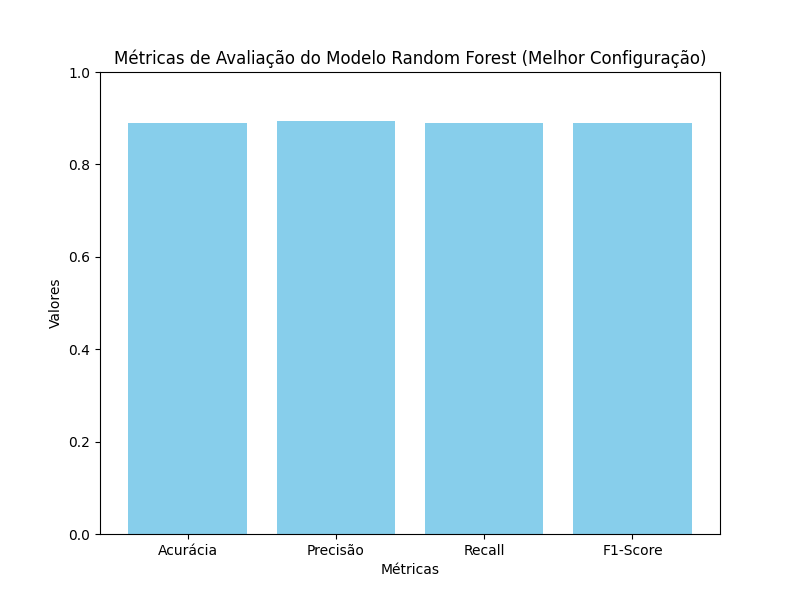
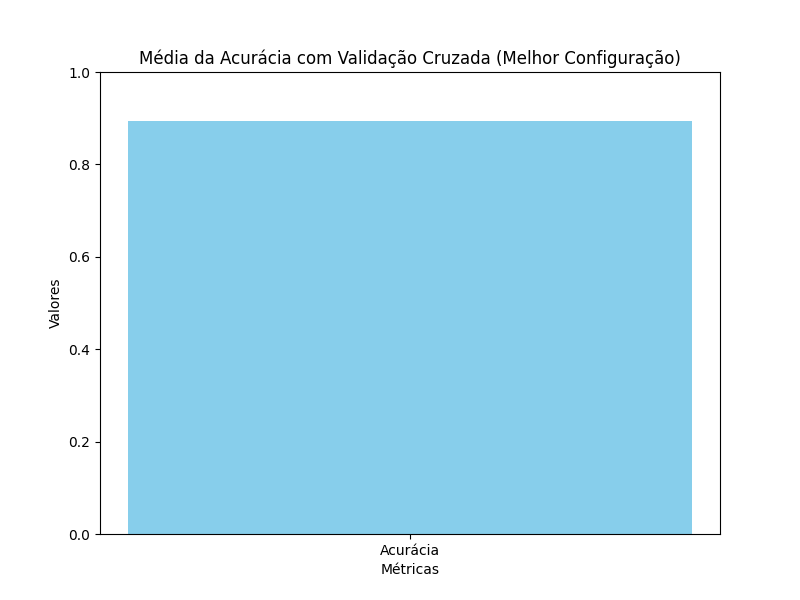
feat:

diff --git a/Machine_Learn_II/Trabalho/trab_2.4-Randon_Forest_Holdout.py b/Machine_Learn_II/Trabalho/trab_2.4-Randon_Forest_Holdout.py
@@ -1,13 +1,13 @@
 import pandas as pd
 import numpy as np
 from sklearn.ensemble import RandomForestClassifier
-from sklearn.model_selection import cross_val_score, KFold, train_test_split
+from sklearn.model_selection import train_test_split
 from sklearn.preprocessing import StandardScaler, LabelEncoder
 from sklearn.metrics import accuracy_score, precision_score, recall_score, f1_score
 import matplotlib.pyplot as plt
 
 # Carregar o dataset
-df_gym = pd.read_csv('C:/Users/Antonio/Desktop/projeto-pos/pos/Machine_Learn_II/Trabalho/gym.csv')
+df_gym = pd.read_csv('/mnt/data/gym.csv')  # Substituir pelo caminho correto caso necessário
 
 # Remover linhas com valores ausentes na variável alvo
 df_gym = df_gym.dropna(subset=['Experience_Level'])
@@ -28,25 +28,11 @@ y = df_gym['Experience_Level']
 scaler = StandardScaler()
 X_scaled = scaler.fit_transform(X)
 
-# Configuração do modelo Random Forest
-random_forest = RandomForestClassifier(random_state=42, n_jobs=-1)
+# Dividir os dados para treino e teste com 25% dos dados para teste
+X_train, X_test, y_train, y_test = train_test_split(X_scaled, y, test_size=0.25, random_state=42)
 
-# Configuração do Cross-Validation com 10 k-folds
-kfold = KFold(n_splits=10, shuffle=True, random_state=42)
-
-# Executando o Cross-Validation
-scores = cross_val_score(random_forest, X_scaled, y, cv=kfold, scoring='accuracy')
-
-# Resultados do Cross-Validation
-mean_accuracy = scores.mean()
-std_accuracy = scores.std()
-
-print(f"Acurácia Média no Cross-Validation: {mean_accuracy:.2%}")
-print(f"Desvio Padrão da Acurácia: {std_accuracy:.2%}")
-print(f"Acurácias por Fold: {scores}")
-
-# Dividir os dados para treino e teste
-X_train, X_test, y_train, y_test = train_test_split(X_scaled, y, test_size=0.3, random_state=42)
+# Configuração do modelo Random Forest com o melhor n_estimators do exercício 1
+random_forest = RandomForestClassifier(random_state=42, n_jobs=-1, n_estimators=1000)  # Melhor n_estimators ajustado
 
 # Treinar o modelo e fazer previsões
 random_forest.fit(X_train, y_train)
@@ -58,12 +44,12 @@ precision = precision_score(y_test, y_pred, average='weighted', zero_division=0)
 recall = recall_score(y_test, y_pred, average='weighted', zero_division=0)
 f1 = f1_score(y_test, y_pred, average='weighted')
 
-print("/nMétricas de Avaliação no Conjunto de Teste:")
+# Exibir resultados das métricas
+print("Métricas de Avaliação no Conjunto de Teste:")
 print(f"Acurácia: {accuracy:.2%}")
 print(f"Precisão: {precision:.2%}")
 print(f"Recall: {recall:.2%}")
 print(f"F1-Score: {f1:.2%}")
-
 
 # Gerar gráfico das métricas
 metrics = ['Acurácia', 'Precisão', 'Recall', 'F1-Score']

diff --git a/Machine_Learn_II/Trabalho/trab_2.3-Randon_Forest_melhor_configuracao.py b/Machine_Learn_II/Trabalho/trab_2.3-Randon_Forest_melhor_configuracao.py
@@ -1,7 +1,7 @@
 import pandas as pd
 import numpy as np
 from sklearn.ensemble import RandomForestClassifier
-from sklearn.model_selection import cross_val_score, KFold, train_test_split, GridSearchCV
+from sklearn.model_selection import cross_val_score, KFold, GridSearchCV
 from sklearn.preprocessing import StandardScaler, LabelEncoder
 from sklearn.metrics import accuracy_score, precision_score, recall_score, f1_score
 import matplotlib.pyplot as plt
@@ -28,9 +28,6 @@ y = df_gym['Experience_Level']
 scaler = StandardScaler()
 X_scaled = scaler.fit_transform(X)
 
-# Dividir os dados para treino e teste
-X_train, X_test, y_train, y_test = train_test_split(X_scaled, y, test_size=0.3, random_state=42)
-
 # Configuração do modelo Random Forest
 random_forest = RandomForestClassifier(random_state=42, n_jobs=-1)
 
@@ -43,7 +40,7 @@ param_grid = {
 }
 
 grid_search = GridSearchCV(estimator=random_forest, param_grid=param_grid, cv=5, scoring='accuracy', n_jobs=-1)
-grid_search.fit(X_train, y_train)
+grid_search.fit(X_scaled, y)
 
 # Melhor configuração e modelo treinado
 best_model = grid_search.best_estimator_
@@ -51,29 +48,17 @@ best_params = grid_search.best_params_
 print("/nMelhor Configuração Encontrada:")
 print(best_params)
 
-# Avaliar o modelo com os dados de teste
-y_pred = best_model.predict(X_test)
-
-# Calcular métricas no conjunto de teste
-accuracy = accuracy_score(y_test, y_pred)
-precision = precision_score(y_test, y_pred, average='weighted', zero_division=0)
-recall = recall_score(y_test, y_pred, average='weighted', zero_division=0)
-f1 = f1_score(y_test, y_pred, average='weighted')
-
-print("/nMétricas de Avaliação no Conjunto de Teste:")
-print(f"Acurácia: {accuracy:.2%}")
-print(f"Precisão: {precision:.2%}")
-print(f"Recall: {recall:.2%}")
-print(f"F1-Score: {f1:.2%}")
+# Avaliar o modelo com validação cruzada
+cv_scores = cross_val_score(best_model, X_scaled, y, cv=5, scoring='accuracy')
+accuracy = np.mean(cv_scores)
+print("/nMédia da Acurácia com Validação Cruzada:")
+print(f"{accuracy:.2%}")
 
 # Gerar gráfico das métricas
-metrics = ['Acurácia', 'Precisão', 'Recall', 'F1-Score']
-values = [accuracy, precision, recall, f1]
-
 plt.figure(figsize=(8, 6))
-plt.bar(metrics, values, color='skyblue')
+plt.bar(['Acurácia'], [accuracy], color='skyblue')
 plt.ylim(0, 1)
-plt.title('Métricas de Avaliação do Modelo Random Forest (Melhor Configuração)')
+plt.title('Média da Acurácia com Validação Cruzada (Melhor Configuração)')
 plt.ylabel('Valores')
 plt.xlabel('Métricas')
 plt.show()

diff --git a/Machine_Learn_II/Trabalho/trab_2.1-Randon_Forest_Cross.py b/Machine_Learn_II/Trabalho/trab_2.1-Randon_Forest_Cross.py
@@ -1,0 +1,59 @@
+import pandas as pd
+import numpy as np
+import matplotlib.pyplot as plt
+from sklearn.ensemble import RandomForestClassifier
+from sklearn.model_selection import cross_val_score, KFold
+from sklearn.preprocessing import StandardScaler, LabelEncoder
+
+# Carregar o dataset
+# Substitua o caminho pelo local correto do arquivo
+caminho_arquivo = 'C:/Users/Antonio/Desktop/projeto-pos/pos/Machine_Learn_II/Trabalho/gym.csv'
+df_gym = pd.read_csv(caminho_arquivo)
+
+# Remover linhas com valores ausentes na variável alvo
+df_gym = df_gym.dropna(subset=['Experience_Level'])
+
+# Codificar variáveis categóricas
+label_encoders = {}
+categorical_columns = ['Gender', 'Workout_Type']
+for col in categorical_columns:
+    le = LabelEncoder()
+    df_gym[col] = le.fit_transform(df_gym[col])
+    label_encoders[col] = le
+
+# Definir features (X) e target (y)
+X = df_gym.drop(columns=['Experience_Level'])
+y = df_gym['Experience_Level']
+
+# Normalizar os dados
+scaler = StandardScaler()
+X_scaled = scaler.fit_transform(X)
+
+# Configuração do modelo Random Forest
+random_forest = RandomForestClassifier(random_state=42, n_jobs=-1, n_estimators=1000)
+
+# Configuração do Cross-Validation com 10 k-folds
+kfold = KFold(n_splits=10, shuffle=True, random_state=42)
+
+# Executando o Cross-Validation
+scores = cross_val_score(random_forest, X_scaled, y, cv=kfold, scoring='accuracy')
+
+# Exibindo os resultados do Cross-Validation
+mean_accuracy = scores.mean()
+std_accuracy = scores.std()
+
+print(f"Acurácia Média no Cross-Validation: {mean_accuracy:.2%}")
+print(f"Desvio Padrão da Acurácia: {std_accuracy:.2%}")
+print(f"Acurácias por Fold: {scores}")
+
+# Gerar gráfico das acurácias por fold
+plt.figure(figsize=(10, 6))
+plt.plot(range(1, len(scores) + 1), scores, marker='o', linestyle='-', label='Acurácia por Fold')
+plt.axhline(mean_accuracy, color='r', linestyle='--', label='Acurácia Média')
+plt.title('Desempenho do Modelo com 10 K-Folds com n_estimators=1000')
+plt.xlabel('Fold')
+plt.ylabel('Acurácia')
+plt.ylim(0, 1)
+plt.legend()
+plt.grid()
+plt.show()
